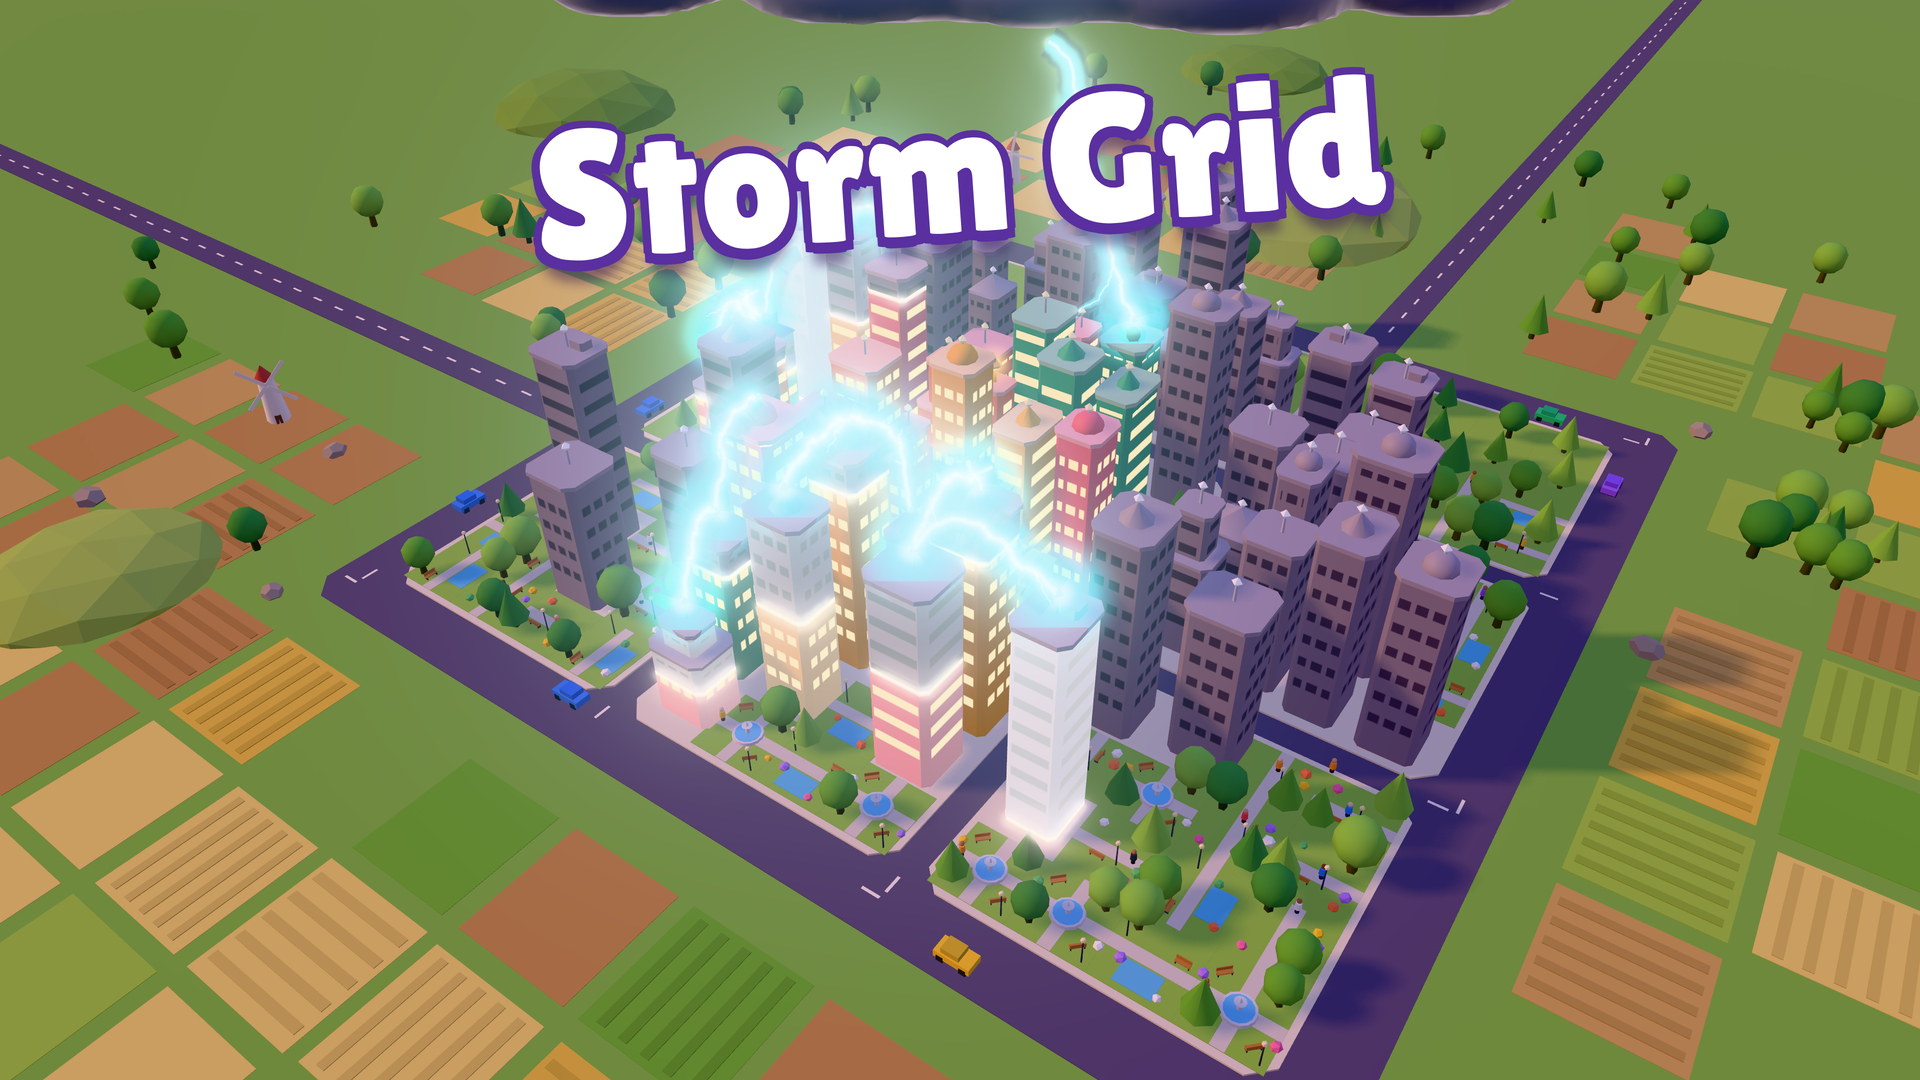
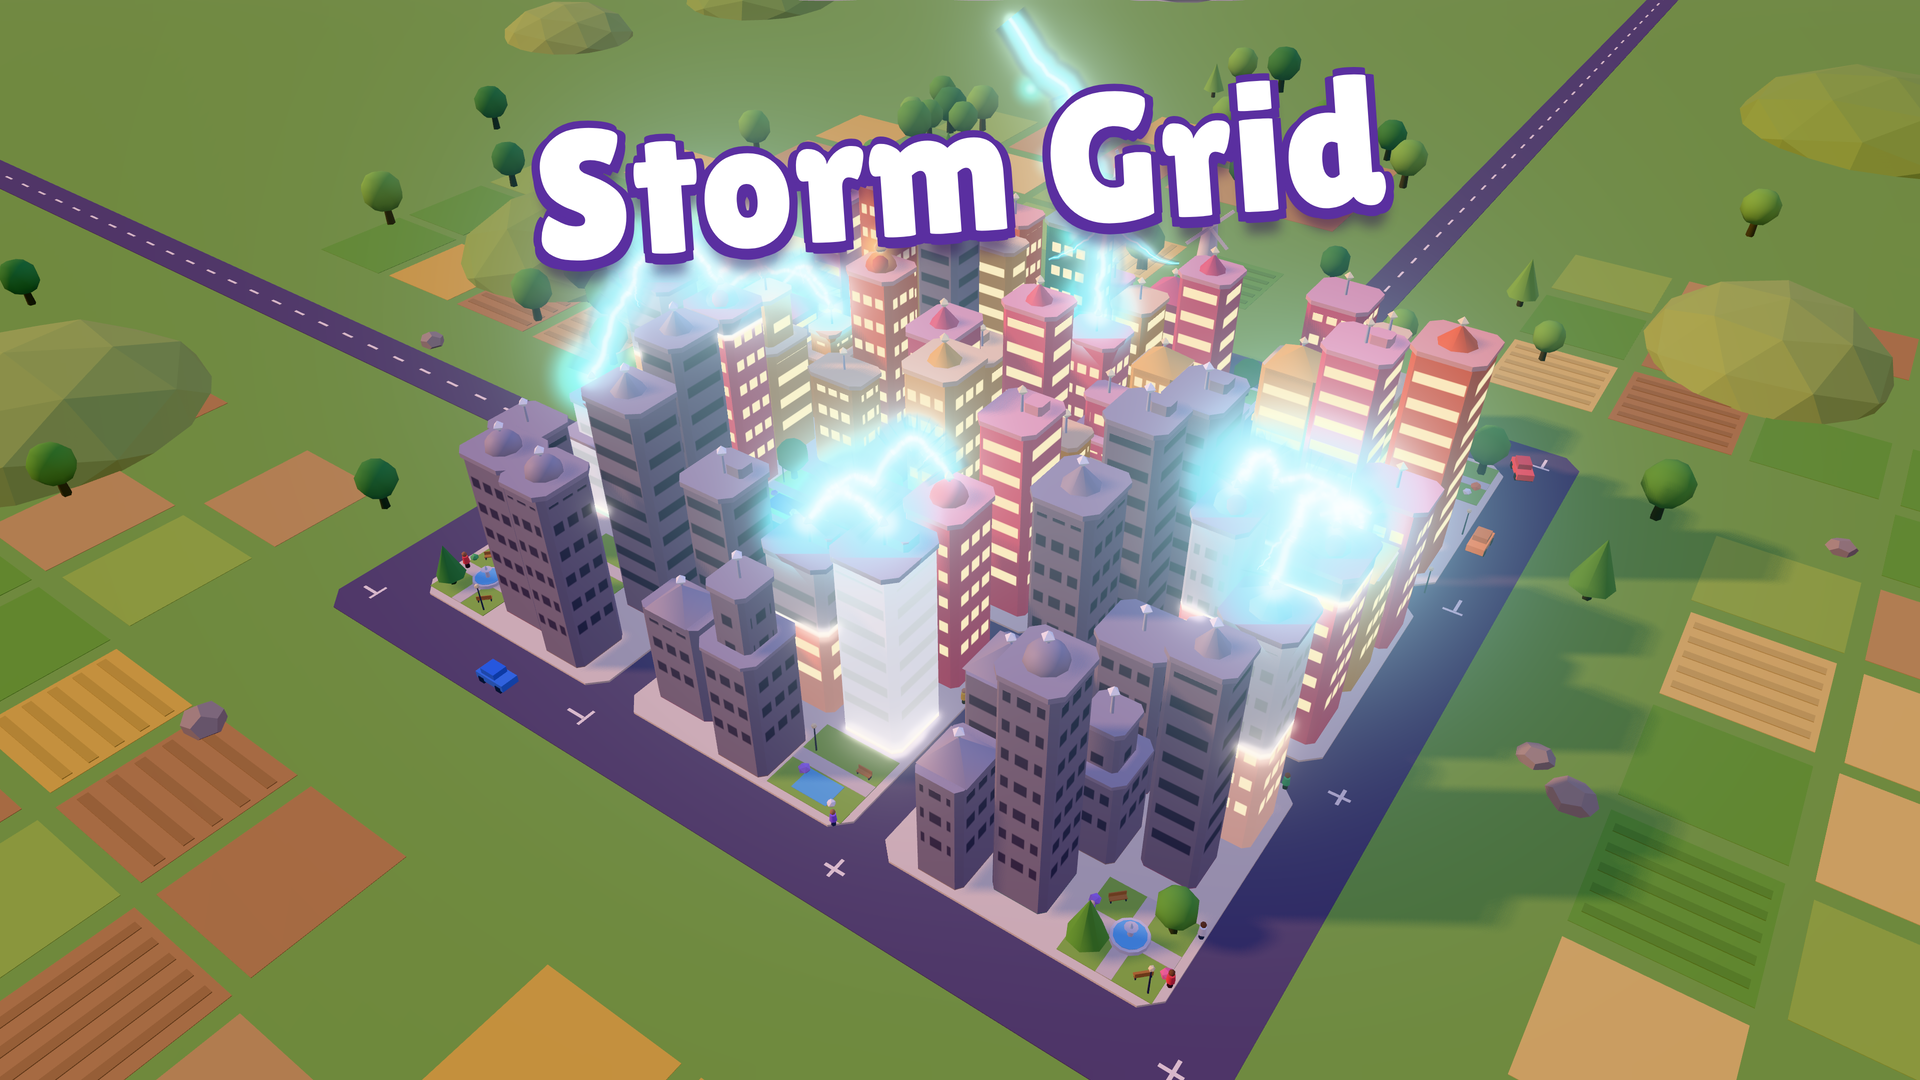
Covers at 70% powered; mute-priority opens one page at a time
- Cover mode (and so the video's opening cover frame) freezes at 70% powered instead of
  50%: in the denser cities the front half stayed grey; now the lit candy colours fill
  the frame. capture-covers passes 0.7 by default too. New covers in submission/covers.
- browser-qa mute-priority closed page 1 only after page 2 had booted; two software-GL
  pages starve each other, so page 2 missed its 30 s boot in 2 of 4 full runs. Page 1 is
  now closed first (its gain is already measured). --only mute-priority: PASS.

Claude-Session: https://claude.ai/code/session_01NPM6YxpE5BFJa19wFQnLbk

diff --git a/src/main.js b/src/main.js
@@ -840,8 +840,8 @@ async function boot() {
       title.className = "cover-title stroke";
       title.textContent = t("title");
       uiRoot.appendChild(title);
-      // Half the city powered, then freeze mid-cascade (a forked bolt in the air).
-      const stopAt = Number(qs.get("cover_share") || 0.5);
+      // 70% of the city powered (the lit colours fill the frame), then freeze mid-cascade (a forked bolt in the air).
+      const stopAt = Number(qs.get("cover_share") || 0.7);
       for (let i = 0; i < 60 * 40 && sim.phase === "run"; i++) {
         autopilot(sim, stepIn); step(sim, 1 / 60, stepIn);
         if (progress(sim) >= stopAt && sim.bolts.length >= 2) break;
